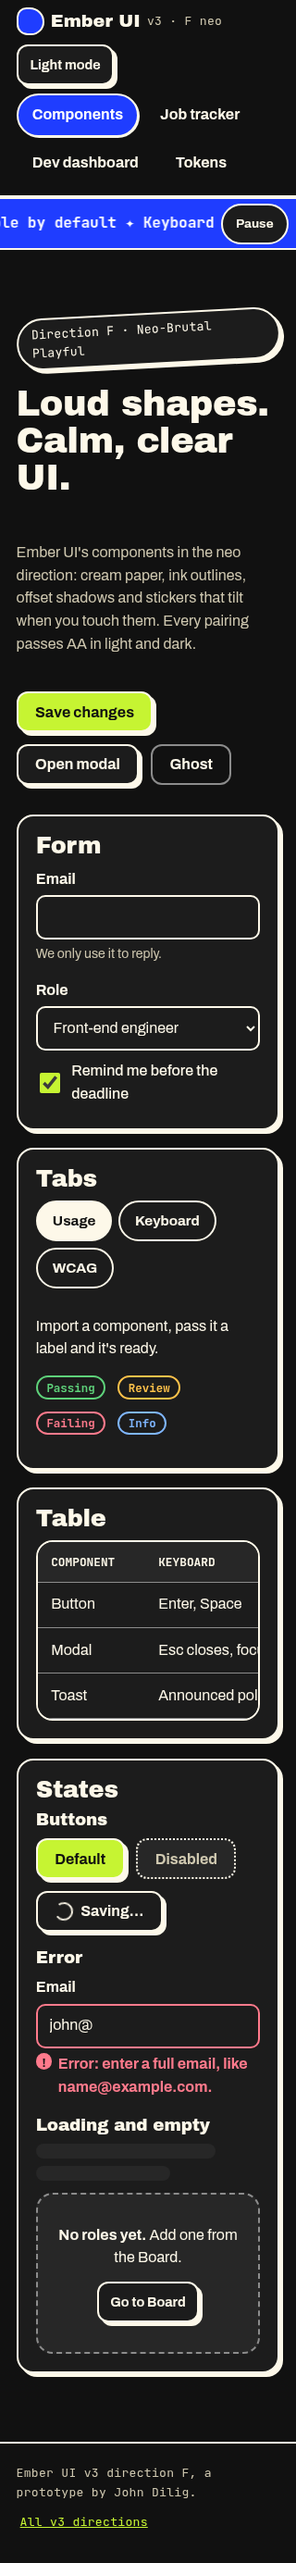
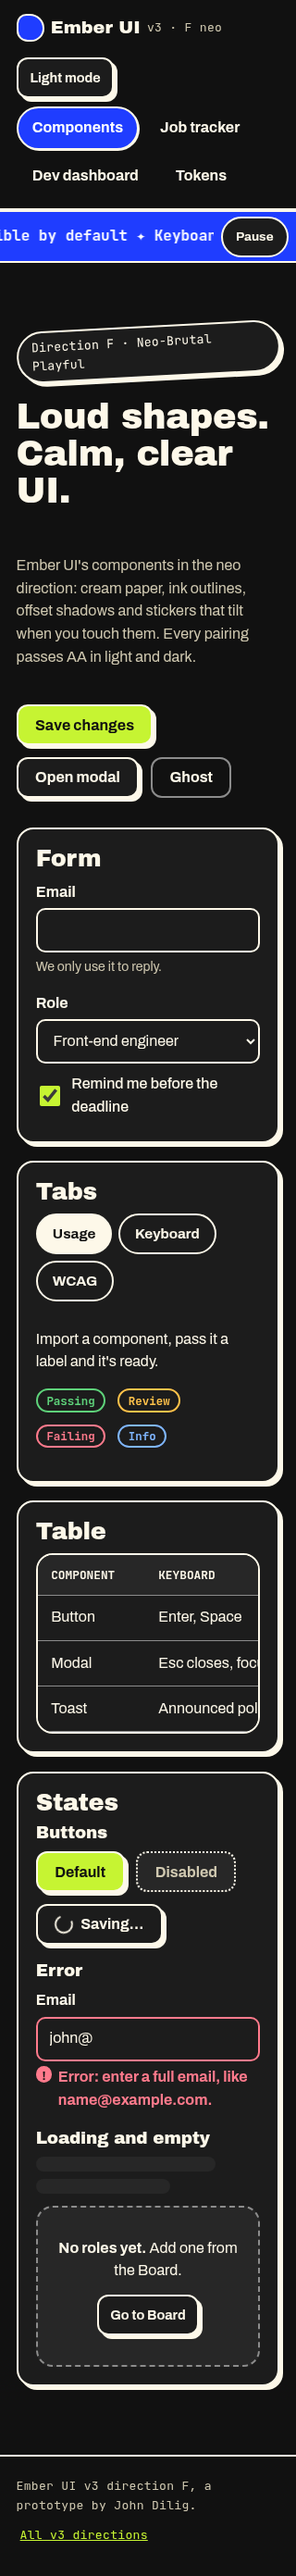
neo: Addendum 5 locked tokens, no aliases, 44px targets, builder section
Author-bot: Chief of Creatives

diff --git a/docs/directions/v3/neo/index.html b/docs/directions/v3/neo/index.html
@@ -13,7 +13,7 @@ html{background:var(--color-bg);color:var(--text);font:400 1rem/1.55 var(--font-
 @media (prefers-reduced-motion:reduce){html{scroll-behavior:auto}}
 body{margin:0;min-height:100vh}
 a{color:var(--accent)}
-:focus-visible{outline:var(--focus-ring-width) solid var(--focus-ring-color);outline-offset:var(--focus-ring-offset)}
+:focus-visible{outline:var(--focus-ring-width) var(--focus-ring-style) var(--focus-ring-color);outline-offset:var(--focus-ring-offset)}
 .skip{position:absolute;left:-999px;top:8px;background:var(--surface);color:var(--text);padding:.6rem 1rem;border:var(--border-width) solid var(--border);border-radius:var(--radius-md);z-index:9}
 .skip:focus{left:8px}
 .wrap{max-width:1180px;margin:0 auto;padding:0 1.1rem}
@@ -24,13 +24,13 @@ h1{font-size:clamp(2.4rem,9vw,5.2rem)}h2{font-size:clamp(1.6rem,5.5vw,2.6rem)}h3
 /* header */
 header.top{position:sticky;top:0;z-index:5;background:var(--color-bg);border-bottom:var(--border-width-strong) solid var(--border)}
 .bar{display:flex;align-items:center;gap:.6rem;min-height:64px;flex-wrap:wrap;padding-block:.5rem}
-.logo{font-family:var(--font-display);font-size:1.2rem;text-decoration:none;color:var(--text);display:flex;align-items:center;gap:.45rem;margin-right:auto}
+.logo{font-family:var(--font-display);font-size:1.2rem;text-decoration:none;color:var(--text);display:flex;align-items:center;gap:.45rem;margin-right:auto;min-height:var(--target-min)}
 .blob{width:30px;height:30px;border-radius:40% 60% 55% 45%;background:var(--highlight);border:var(--border-width) solid var(--border);display:inline-block}
 nav.views{display:flex;flex-wrap:wrap;gap:.35rem;width:100%;order:3;padding-bottom:.2rem}
 @media(min-width:760px){nav.views{width:auto;order:0}}
 nav.views a{flex:none;text-decoration:none;color:var(--text);font-weight:700;padding:.55rem .95rem;min-height:44px;display:inline-flex;align-items:center;border-radius:var(--radius-full);border:var(--border-width) solid transparent}
 nav.views a[aria-current="page"]{background:var(--highlight);color:var(--highlight-contrast);border-color:var(--border);box-shadow:var(--shadow-press)}
-.btn{font:700 1rem var(--font-body);min-height:44px;padding:.6rem 1.15rem;border-radius:var(--radius-md);border:var(--border-width) solid var(--border);background:var(--surface);color:var(--text);box-shadow:var(--shadow-raised);cursor:pointer;transition:transform var(--duration-fast) var(--ease-press),box-shadow var(--duration-fast) var(--ease-press);display:inline-flex;align-items:center;gap:.5rem;text-decoration:none}
+.btn{font:700 1rem var(--font-body);min-height:max(var(--control-height),var(--target-min));padding:.6rem var(--control-padding-x);border-radius:var(--radius-md);border:var(--border-width) solid var(--border);background:var(--surface);color:var(--text);box-shadow:var(--shadow-raised);cursor:pointer;transition:transform var(--duration-fast) var(--ease-press),box-shadow var(--duration-fast) var(--ease-press);display:inline-flex;align-items:center;gap:var(--control-gap);text-decoration:none}
 .btn:hover{transform:translate(-1px,-1px) rotate(var(--tilt))}
 .btn:active{transform:translate(3px,3px);box-shadow:var(--shadow-press);background:var(--surface-muted)}
 .btn.primary:active{background:var(--accent-hover)}
@@ -125,7 +125,7 @@ dialog::backdrop{background:rgb(0 0 0 / .45)}
 .spark .area{fill:var(--accent-soft);stroke:none}
 .icon-wobble svg{transition:transform var(--duration-slow) var(--ease-press)}
 .icon-wobble:hover svg{transform:rotate(-14deg) scale(1.12)}
-footer a{display:inline-flex;align-items:center;min-height:44px;padding:0 .25rem}
+footer a,main p a{display:inline-flex;align-items:center;min-height:44px;padding:0 .25rem}
 footer{border-top:var(--border-width) solid var(--border);padding:1.4rem 0;margin-top:2rem}
 </style>
 </head>
@@ -246,7 +246,7 @@ const dlg=$('#dlg');let opener;$('#openm').onclick=e=>{opener=e.currentTarget;dl
 $('#dno').onclick=()=>dlg.close();$('#dok').onclick=()=>{dlg.close();toast('Deleted (demo).')};dlg.onclose=()=>opener&&opener.focus();
 const tabs=$$('[role=tab]');function sel(t){tabs.forEach(x=>{const on=x===t;x.setAttribute('aria-selected',on);x.tabIndex=on?0:-1;$('#'+x.getAttribute('aria-controls')).hidden=!on});t.focus()}
 tabs.forEach((t,i)=>{t.onclick=()=>sel(t);t.onkeydown=e=>{const k={ArrowRight:i+1,ArrowLeft:i-1,Home:0,End:tabs.length-1}[e.key];if(k!==undefined){e.preventDefault();sel(tabs[(k+tabs.length)%tabs.length])}}});
-const names=['color-bg','surface','surface-muted','text','text-muted','border','accent','accent-hover','accent-soft','focus','highlight','success','warning','danger','info'];
+const names=['color-bg','surface','surface-muted','text','text-muted','border','accent','accent-hover','accent-soft','focus-ring-color','highlight','success','warning','danger','info'];
 function drawSw(){const cs=getComputedStyle(R);$('#sw').innerHTML=names.map(n=>{const v=cs.getPropertyValue('--'+n).trim();return `<div><i style="background:${v}"></i><span>--${n}<br>${v}</span></div>`}).join('')}
 matchMedia('(prefers-color-scheme: dark)').addEventListener('change',syncMode);
 syncMode();route();if(location.hash)scrollTo(0,0);

diff --git a/docs/directions/v3/neo/tokens.css b/docs/directions/v3/neo/tokens.css
@@ -39,7 +39,6 @@
   --radius-md: 12px;
   --radius-lg: 18px;
   --radius-full: 999px;
-  --radius: var(--radius-md);
   --border-width: 2px;
   --border-width-strong: 2.5px;
   --shadow-raised: 4px 4px 0 var(--border);
@@ -47,6 +46,11 @@
   --divider-shape: none;
   --focus-ring-width: 3px;
   --focus-ring-offset: 3px;
+  --focus-ring-style: solid;
+  --control-height: 44px;
+  --control-padding-x: 1.15rem;
+  --control-gap: .5rem;
+  --target-min: 44px;
   --duration-fast: 120ms;
   --duration-base: 220ms;
   --duration-slow: 420ms;
@@ -71,7 +75,6 @@
   --accent-soft: var(--palette-blue-100);
   --accent-contrast: var(--palette-paper);
   --focus-ring-color: var(--palette-pink-600);
-  --focus: var(--palette-pink-600);
   --success: var(--palette-green-700);
   --warning: var(--palette-amber-800);
   --danger: var(--palette-red-700);
@@ -95,7 +98,6 @@
   --accent-soft: var(--palette-lime-900);
   --accent-contrast: var(--palette-ink);
   --focus-ring-color: var(--palette-pink-600);
-  --focus: var(--palette-pink-600);
   --success: var(--palette-green-300);
   --warning: var(--palette-amber-300);
   --danger: var(--palette-red-300);
@@ -119,7 +121,6 @@
   --accent-soft: var(--palette-lime-900);
   --accent-contrast: var(--palette-ink);
   --focus-ring-color: var(--palette-pink-600);
-  --focus: var(--palette-pink-600);
   --success: var(--palette-green-300);
   --warning: var(--palette-amber-300);
   --danger: var(--palette-red-300);

diff --git a/docs/directions/v3/neo/gen.py b/docs/directions/v3/neo/gen.py
@@ -6,16 +6,16 @@ P={'ink':'#111111','ink-2':'#1c1c1c','ink-3':'#272727','ink-soft':'#3d3d3d','gra
  'green-700':'#17702a','green-300':'#5ed27a','amber-800':'#855400','amber-300':'#ffc24a',
  'red-700':'#c4122f','red-800':'#a00e26','red-300':'#ff7a8c','red-200':'#ff9aa8','pink-600':'#e0217a','sky-700':'#0b5cad','sky-300':'#7fb6ff'}
 L={'color-bg':'cream','surface':'paper','surface-muted':'cream-2','text':'ink','text-muted':'ink-soft','border':'ink','border-subtle':'gray',
- 'accent':'blue-600','accent-hover':'blue-700','accent-soft':'blue-100','accent-contrast':'paper','focus-ring-color':'pink-600','focus':'pink-600',
+ 'accent':'blue-600','accent-hover':'blue-700','accent-soft':'blue-100','accent-contrast':'paper','focus-ring-color':'pink-600',
  'success':'green-700','warning':'amber-800','danger':'red-700','danger-hover':'red-800','danger-contrast':'paper','info':'sky-700',
  'highlight':'lime-400','highlight-contrast':'ink'}
 D={'color-bg':'ink','surface':'ink-2','surface-muted':'ink-3','text':'cream','text-muted':'sand','border':'cream','border-subtle':'gray-2',
- 'accent':'lime-400','accent-hover':'lime-300','accent-soft':'lime-900','accent-contrast':'ink','focus-ring-color':'pink-600','focus':'pink-600',
+ 'accent':'lime-400','accent-hover':'lime-300','accent-soft':'lime-900','accent-contrast':'ink','focus-ring-color':'pink-600',
  'success':'green-300','warning':'amber-300','danger':'red-300','danger-hover':'red-200','danger-contrast':'ink','info':'sky-300',
  'highlight':'blue-600','highlight-contrast':'paper'}
 SHAPE={'--font-display':"'Archivo Black', 'Arial Black', sans-serif",'--font-body':"'Archivo', system-ui, sans-serif",'--font-mono':"'JetBrains Mono', ui-monospace, monospace",
- '--weight-display':'400','--radius-sm':'10px','--radius-md':'12px','--radius-lg':'18px','--radius-full':'999px','--radius':'var(--radius-md)','--border-width':'2px','--border-width-strong':'2.5px',
- '--shadow-raised':'4px 4px 0 var(--border)','--shadow-press':'1px 1px 0 var(--border)','--divider-shape':'none','--focus-ring-width':'3px','--focus-ring-offset':'3px',
+ '--weight-display':'400','--radius-sm':'10px','--radius-md':'12px','--radius-lg':'18px','--radius-full':'999px','--border-width':'2px','--border-width-strong':'2.5px',
+ '--shadow-raised':'4px 4px 0 var(--border)','--shadow-press':'1px 1px 0 var(--border)','--divider-shape':'none','--focus-ring-width':'3px','--focus-ring-offset':'3px','--focus-ring-style':'solid','--control-height':'44px','--control-padding-x':'1.15rem','--control-gap':'.5rem','--target-min':'44px',
  '--duration-fast':'120ms','--duration-base':'220ms','--duration-slow':'420ms','--duration-reveal':'520ms',
  '--ease-standard':'cubic-bezier(.2,.8,.2,1)','--ease-press':'cubic-bezier(.34,1.56,.64,1)','--duration-ticker':'28s','--parallax-scale':'0.08','--lift':'-3px','--tilt':'-1.5deg'}
 sem={'neo-light':{'--'+k:P[v] for k,v in L.items()},'neo-dark':{'--'+k:P[v] for k,v in D.items()}}
@@ -58,7 +58,7 @@ Swatches are in the live prototype's Tokens section. Contrast results are in [CO
 | Token | Light primitive | Light | Dark primitive | Dark |
 |---|---|---|---|---|
 {rows}
-New semantic tokens for the additive minor release after v0.3.0 (every theme must define them, `0` or `none` when unused): `--highlight` and `--highlight-contrast` (a sticker or chip fill and its text); the shape set `--radius-sm`, `--radius-md`, `--radius-lg`, `--border-width-strong`, `--shadow-raised`, `--shadow-press` and `--divider-shape`, named per Chief Architect; and `--focus-ring-width`, `--focus-ring-offset`, `--tilt` and `--lift`. `--focus-ring-color` is the ring color; `--focus` and `--radius` stay as deprecated aliases until v0.4 (pointing to `--focus-ring-color` and `--radius-md`), per Chief Architect's final ruling. All other names are Ember's existing ones.
+New semantic tokens for the additive minor release after v0.3.0 (every theme must define them, `0` or `none` when unused): `--highlight` and `--highlight-contrast` (a sticker or chip fill and its text); the shape set `--radius-sm`, `--radius-md`, `--radius-lg`, `--border-width-strong`, `--shadow-raised`, `--shadow-press` and `--divider-shape`, named per Chief Architect; and `--focus-ring-width`, `--focus-ring-offset`, `--tilt` and `--lift`. The set follows ARCH-REVIEW Addendum 5 (locked 5:20 PM PT): `--focus-ring-color/width/offset/style`, `--control-height/padding-x/gap` and `--target-min` (44px hit area) are defined here too. Ember's old `--radius` and `--focus` are removed, with no aliases. All other names are Ember's existing ones.
 
 ## Shape, type and motion
 | Token | Value |

diff --git a/docs/directions/v3/neo/HANDOFF.md b/docs/directions/v3/neo/HANDOFF.md
@@ -8,7 +8,7 @@ Identity for **Ember UI and its Storybook** (balbonits/a11y-design-system). Chun
 - Screens: [handoff/](handoff/), plain and annotated, every width in light and dark
 - Re-run checks locally: `python3 -m http.server 8931` in this folder, then `node annotate.cjs` (axe, overflow, text spacing, 200% zoom, annotated shots) and `node shoot.cjs` from `..` (all 4 views)
 
-Verified 2026-11-10, 5:20 PM PT, local Chrome: axe 0 serious or critical, 0 horizontal overflow at 320, 375, 768, 1024 and 1440 in light and dark, 0 overflow and 0 clipped text with the WCAG 1.4.12 text-spacing override, 0 overflow at 200% zoom (640 CSS px), and every interactive target 44px or larger.
+Verified 2026-11-10, 6:40 PM PT, local Chrome: axe 0 serious or critical, 0 horizontal overflow at 320, 375, 768, 1024 and 1440 in light and dark, 0 overflow and 0 clipped text with the WCAG 1.4.12 text-spacing override, 0 overflow at 200% zoom (640 CSS px), and every interactive target in all four views (components, tracker, dashboard, tokens) at or above `--target-min` (44px).
 
 ## H-1 Layout, mobile-first
 320 is the base. Breakpoints use `min-width` only:
@@ -59,7 +59,7 @@ Every state has a non-color cue. Shadow or press is never the only one.
 All of these are in the "States" panel of the `#components` view. Dialog: Cancel and a confirm button, Esc closes, focus returns to the opener. Toast: `role="status"`, hidden until shown.
 
 ## H-5 Touch targets
-Every control is at least 44×44: buttons and tabs `min-height: 44px`, nav pills 44px+, fields 48px, the checkbox's whole label row is 44px (the box itself is 24px inside it), the ticker Pause button 44×44 minimum, and the footer link is a 44px-tall inline flex. Gaps between targets are at least 0.35rem. The pink boxes in the 320 annotated shots show each target's size; none are flagged under 44.
+Every target meets `--target-min` (44px), checked per view by `annotate.cjs`, which prints `SMALL` for anything under it (none now). `--control-height` is the visual height; the hit area is `max(var(--control-height), var(--target-min))`. Buttons and tabs are 44px tall, the logo link is 44px tall (it was 30px), prose links (TOKENS.md, CONTRAST.md and the footer link) are 44px-tall inline flex with 0.25rem side padding (they were 17px), nav pills 44px+, fields 48px, the checkbox's whole label row is 44px (the box itself is 24px inside it), the ticker Pause button 44×44 minimum. Gaps between targets are at least 0.35rem. The pink boxes in the 320 annotated shots show each target's size; none are flagged under 44.
 
 ## H-6 Motion
 Only Ember's R-3 motion primitives. The prototype's two `@keyframes` (`tick`, `spin`) stand in for them; in Ember they must come from the existing R-3 primitives, and if Ember lacks a marquee or spinner primitive, CTE adds it to Ember rather than to the theme.
@@ -82,7 +82,7 @@ The full table for light and dark, with primitives and hex, is in [TOKENS.md](TO
 | Token | Value |
 |---|---|
 | `--radius-sm` | 10px (fields, small fills) |
-| `--radius-md` | 12px (buttons, toasts; replaces Ember's `--radius`) |
+| `--radius-md` | 12px (buttons, toasts) |
 | `--radius-lg` | 18px (panels, cards, dialogs, lanes) |
 | `--radius-full` | 999px (pills, tabs, nav, stickers) |
 | `--border-width` | 2px |
@@ -92,12 +92,20 @@ The full table for light and dark, with primitives and hex, is in [TOKENS.md](TO
 | `--divider-shape` | `none` |
 | `--focus-ring-color` | pink-600 `#e0217a` (both modes) |
 | `--focus-ring-width` / `--focus-ring-offset` | 3px / 3px |
-| `--focus`, `--radius` | Deprecated aliases until v0.4, pointing to `--focus-ring-color` and `--radius-md` |
+| `--focus-ring-style` | `solid` (never none or hidden) |
+| `--control-height` | 44px (visual height) |
+| `--control-padding-x` | 1.15rem |
+| `--control-gap` | .5rem |
+| `--target-min` | 44px (CI fails any hit area below it) |
+| `--highlight` / `--highlight-contrast` | lime-400 / ink (light, 14.74:1); blue-600 / paper (dark, 6.63:1) |
+| `--lift` / `--tilt` | -3px / -1.5deg; both 0 under reduced motion |
+
+This is the full locked set from ARCH-REVIEW Addendum 5. There are no aliases: `--radius` and `--focus` are deleted, and any leftover use fails QA. `--shadow-press` is never the only pressed cue (pressed buttons also shift 3px and change fill, current nav pills also take `--highlight`, and toggles carry `aria-pressed`), and `--divider-shape` is decorative only.
 
 Contrast for every pair in both modes is in [CONTRAST.md](CONTRAST.md): text 4.5:1, borders, focus and states 3:1, 64 pairs, 0 fails.
 
 ## H-8 Annotated screenshots
-`handoff/neo-<width>-<mode>-annotated.png` for 320, 375, 768, 1024 and 1440 in light and dark. Green dashed boxes are landmarks (header, nav, region, main, footer), purple boxes are heading levels (H1–H3), and pink numbered boxes are Tab stops in order with their size in px (red would mean under 44px; there are none).
+`handoff/neo-<width>-<mode>-annotated.png` for 320, 375, 768, 1024 and 1440 in light and dark. Green dashed boxes are landmarks (header, nav, region, main, footer), purple boxes are heading levels (H1–H3), and pink numbered boxes are Tab stops in order with their size in px (red would mean under 44px; there are none). `handoff/neo-<width>-<mode>-annotated-top.png` is the same shot cropped to the first 900px viewport, for a quick look at header and nav.
 
 | Width | Light | Dark |
 |---|---|---|
@@ -108,8 +116,16 @@ Contrast for every pair in both modes is in [CONTRAST.md](CONTRAST.md): text 4.5
 | 1440 | [plain](handoff/neo-1440-light.png) · [annotated](handoff/neo-1440-light-annotated.png) | [plain](handoff/neo-1440-dark.png) · [annotated](handoff/neo-1440-dark-annotated.png) |
 
 ## For the builder
-1. Add the new semantic tokens above to every Ember theme as an additive minor after v0.3.0, then add `neo` to the theme registry from tokens.json.
-2. Swap component radius, border and shadow values to the shape tokens; no per-theme component code.
-3. Wire the states in H-4 with the ARIA listed.
-4. Gate: CI contrast across every combo, axe and overflow at the five widths in light and dark.
+- **Builder:** Full Stack Developer (FSD). Design sign-off comes from Chief Architect first, with Chief of Technology & Engineering copied.
+- **Repo and branch:** `balbonits/a11y-design-system`, on FSD's `feat/r2-themes` branch (the R-2 theme registry). Source for this direction is `docs/directions/v3/neo/` (tokens.json, tokens.css, TOKENS.md, CONTRAST.md, index.html, handoff/).
+- **Steps:**
+  1. Add the Addendum 5 semantic tokens above to every Ember theme as an additive minor after v0.3.0 (themes that don't use one set it to `0` or `none`), then register `neo` from tokens.json.
+  2. Swap component radius, border, shadow, focus and control sizes to these tokens; no per-theme component code.
+  3. Wire the states in H-4 with the ARIA listed, and the motion in H-6 with its reduced-motion fallbacks.
+- **Done means (all numeric):** at 320, 375, 768, 1024 and 1440 in light and dark (10 runs): axe 0 serious or critical, horizontal overflow 0, 0 overflow and 0 clipped text with the 1.4.12 text-spacing override, 0 overflow at 200% zoom; contrast CI passes every pair in CONTRAST.md (64 pairs, 0 fails, focus ring 3:1 or more against both bg and border); every hit area at or above `--target-min`; token lint passes with every Addendum 5 name defined in every theme and 0 uses of `--radius` or `--focus`; Visual QA gate green.
+- **Dependencies:** Ember v0.3.0 and the R-2 registry must land first. The ticker (marquee) and the busy spinner use the R-3 marquee and spinner primitives that CTE owns; until R-3 lands, keep the prototype's CSS from index.html.
+- **Known issues:** the prototype's `tick` (ticker) and `spin` (busy button) keyframes are local CSS and should be replaced by the R-3 primitives, not copied into components. Both already stop under reduced motion (ticker paused with a Play button, spinner becomes a dotted static ring).
+- **Who to ask:** Chief of Creatives for anything visual, copy or token values; Chief Architect for accessibility and token-name rulings.
+- **ETA:** proposed (assumption, not yet confirmed by FSD): neo themed in Storybook within one working session after v0.3.0 and R-2 merge. FSD confirms or counters on receipt.
+
 Anything missing or unclear: tell Chief of Creatives and it gets added here, not guessed.

diff --git a/docs/directions/v3/neo/TOKENS.md b/docs/directions/v3/neo/TOKENS.md
@@ -21,7 +21,6 @@ Swatches are in the live prototype's Tokens section. Contrast results are in [CO
 | `--accent-soft` | `blue-100` | `#e3e8ff` | `lime-900` | `#2c3310` |
 | `--accent-contrast` | `paper` | `#ffffff` | `ink` | `#111111` |
 | `--focus-ring-color` | `pink-600` | `#e0217a` | `pink-600` | `#e0217a` |
-| `--focus` | `pink-600` | `#e0217a` | `pink-600` | `#e0217a` |
 | `--success` | `green-700` | `#17702a` | `green-300` | `#5ed27a` |
 | `--warning` | `amber-800` | `#855400` | `amber-300` | `#ffc24a` |
 | `--danger` | `red-700` | `#c4122f` | `red-300` | `#ff7a8c` |
@@ -31,7 +30,7 @@ Swatches are in the live prototype's Tokens section. Contrast results are in [CO
 | `--highlight` | `lime-400` | `#c6f432` | `blue-600` | `#1f3dff` |
 | `--highlight-contrast` | `ink` | `#111111` | `paper` | `#ffffff` |
 
-New semantic tokens for the additive minor release after v0.3.0 (every theme must define them, `0` or `none` when unused): `--highlight` and `--highlight-contrast` (a sticker or chip fill and its text); the shape set `--radius-sm`, `--radius-md`, `--radius-lg`, `--border-width-strong`, `--shadow-raised`, `--shadow-press` and `--divider-shape`, named per Chief Architect; and `--focus-ring-width`, `--focus-ring-offset`, `--tilt` and `--lift`. `--focus-ring-color` is the ring color; `--focus` and `--radius` stay as deprecated aliases until v0.4 (pointing to `--focus-ring-color` and `--radius-md`), per Chief Architect's final ruling. All other names are Ember's existing ones.
+New semantic tokens for the additive minor release after v0.3.0 (every theme must define them, `0` or `none` when unused): `--highlight` and `--highlight-contrast` (a sticker or chip fill and its text); the shape set `--radius-sm`, `--radius-md`, `--radius-lg`, `--border-width-strong`, `--shadow-raised`, `--shadow-press` and `--divider-shape`, named per Chief Architect; and `--focus-ring-width`, `--focus-ring-offset`, `--tilt` and `--lift`. The set follows ARCH-REVIEW Addendum 5 (locked 5:20 PM PT): `--focus-ring-color/width/offset/style`, `--control-height/padding-x/gap` and `--target-min` (44px hit area) are defined here too. Ember's old `--radius` and `--focus` are removed, with no aliases. All other names are Ember's existing ones.
 
 ## Shape, type and motion
 | Token | Value |
@@ -44,7 +43,6 @@ New semantic tokens for the additive minor release after v0.3.0 (every theme mus
 | `--radius-md` | `12px` |
 | `--radius-lg` | `18px` |
 | `--radius-full` | `999px` |
-| `--radius` | `var(--radius-md)` |
 | `--border-width` | `2px` |
 | `--border-width-strong` | `2.5px` |
 | `--shadow-raised` | `4px 4px 0 var(--border)` |
@@ -52,6 +50,11 @@ New semantic tokens for the additive minor release after v0.3.0 (every theme mus
 | `--divider-shape` | `none` |
 | `--focus-ring-width` | `3px` |
 | `--focus-ring-offset` | `3px` |
+| `--focus-ring-style` | `solid` |
+| `--control-height` | `44px` |
+| `--control-padding-x` | `1.15rem` |
+| `--control-gap` | `.5rem` |
+| `--target-min` | `44px` |
 | `--duration-fast` | `120ms` |
 | `--duration-base` | `220ms` |
 | `--duration-slow` | `420ms` |

diff --git a/docs/directions/v3/neo/CONTRAST.md b/docs/directions/v3/neo/CONTRAST.md
@@ -26,11 +26,11 @@
 | neo-light | highlight-contrast | highlight | 4.5 | 14.74 |
 | neo-light | border | color-bg | 3 | 17.79 |
 | neo-light | border | surface | 3 | 18.88 |
-| neo-light | focus | color-bg | 3 | 4.24 |
-| neo-light | focus | surface | 3 | 4.50 |
-| neo-light | focus | surface-muted | 3 | 3.80 |
+| neo-light | focus-ring-color | color-bg | 3 | 4.24 |
+| neo-light | focus-ring-color | surface | 3 | 4.50 |
+| neo-light | focus-ring-color | surface-muted | 3 | 3.80 |
 | neo-light | accent | surface-muted | 3 | 5.60 |
-| neo-light | focus | border | 3 | 4.20 |
+| neo-light | focus-ring-color | border | 3 | 4.20 |
 | neo-light | border | surface-muted | 3 | 15.95 |
 | neo-dark | text | color-bg | 4.5 | 17.79 |
 | neo-dark | text | surface | 4.5 | 16.05 |
@@ -58,9 +58,9 @@
 | neo-dark | highlight-contrast | highlight | 4.5 | 6.63 |
 | neo-dark | border | color-bg | 3 | 17.79 |
 | neo-dark | border | surface | 3 | 16.05 |
-| neo-dark | focus | color-bg | 3 | 4.20 |
-| neo-dark | focus | surface | 3 | 3.79 |
-| neo-dark | focus | surface-muted | 3 | 3.32 |
+| neo-dark | focus-ring-color | color-bg | 3 | 4.20 |
+| neo-dark | focus-ring-color | surface | 3 | 3.79 |
+| neo-dark | focus-ring-color | surface-muted | 3 | 3.32 |
 | neo-dark | accent | surface-muted | 3 | 11.66 |
-| neo-dark | focus | border | 3 | 4.24 |
+| neo-dark | focus-ring-color | border | 3 | 4.24 |
 | neo-dark | border | surface-muted | 3 | 14.07 |
